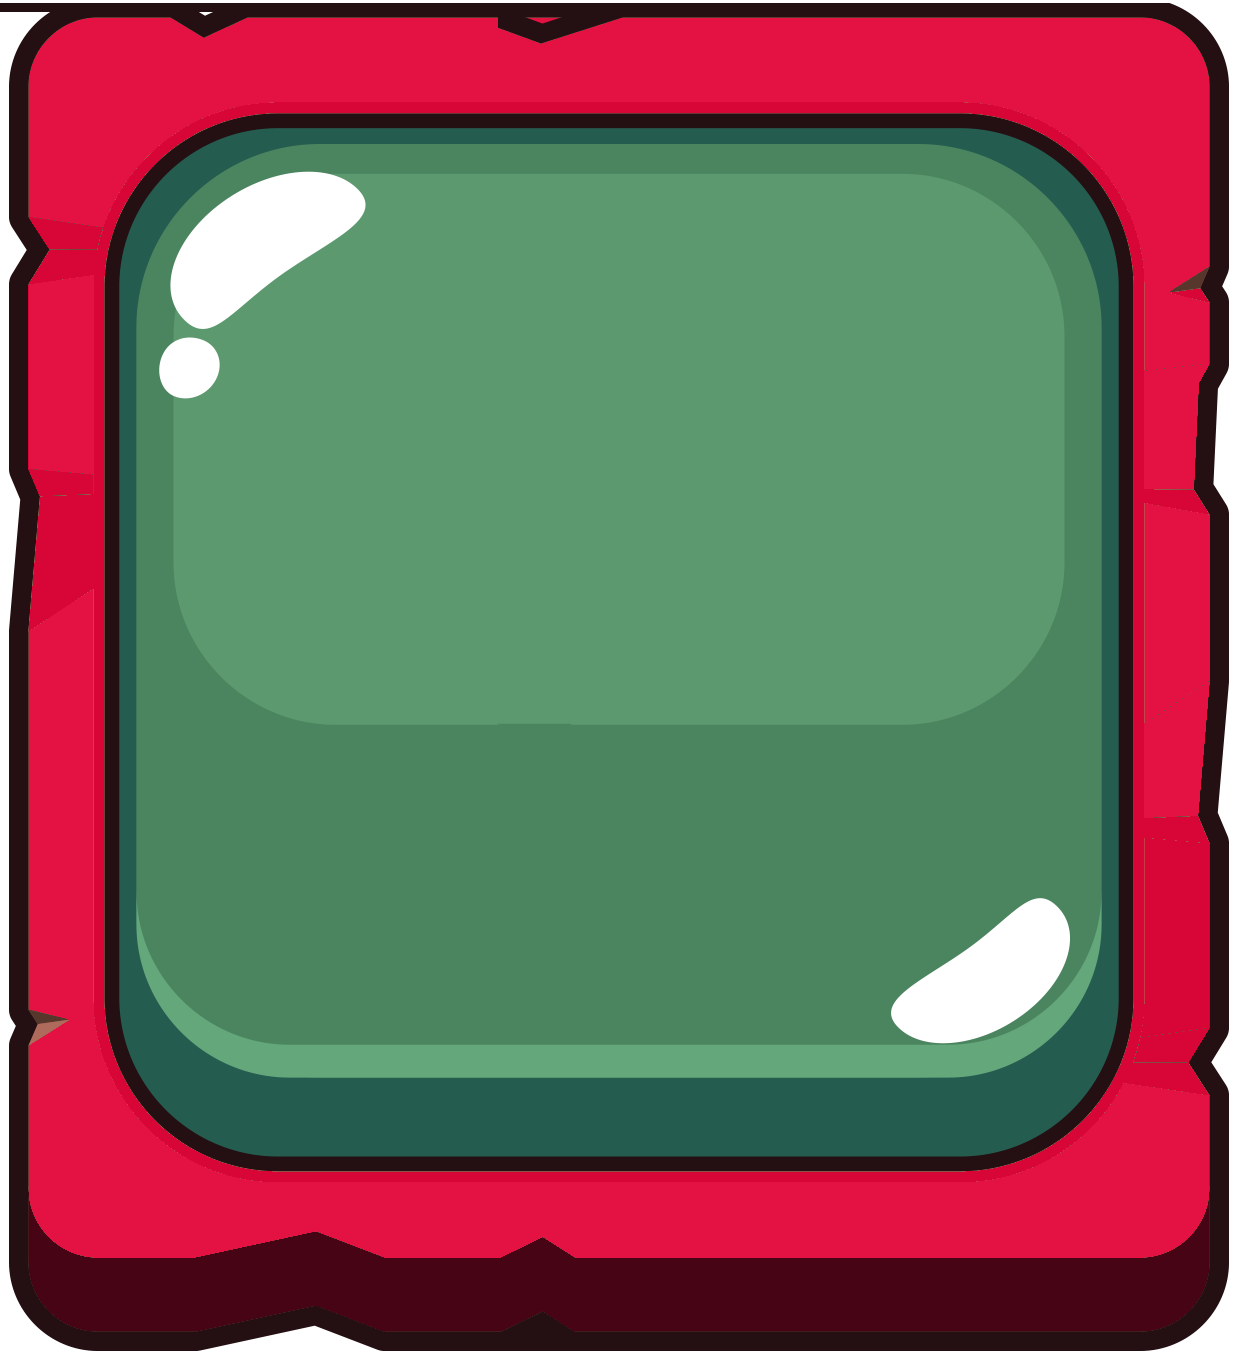
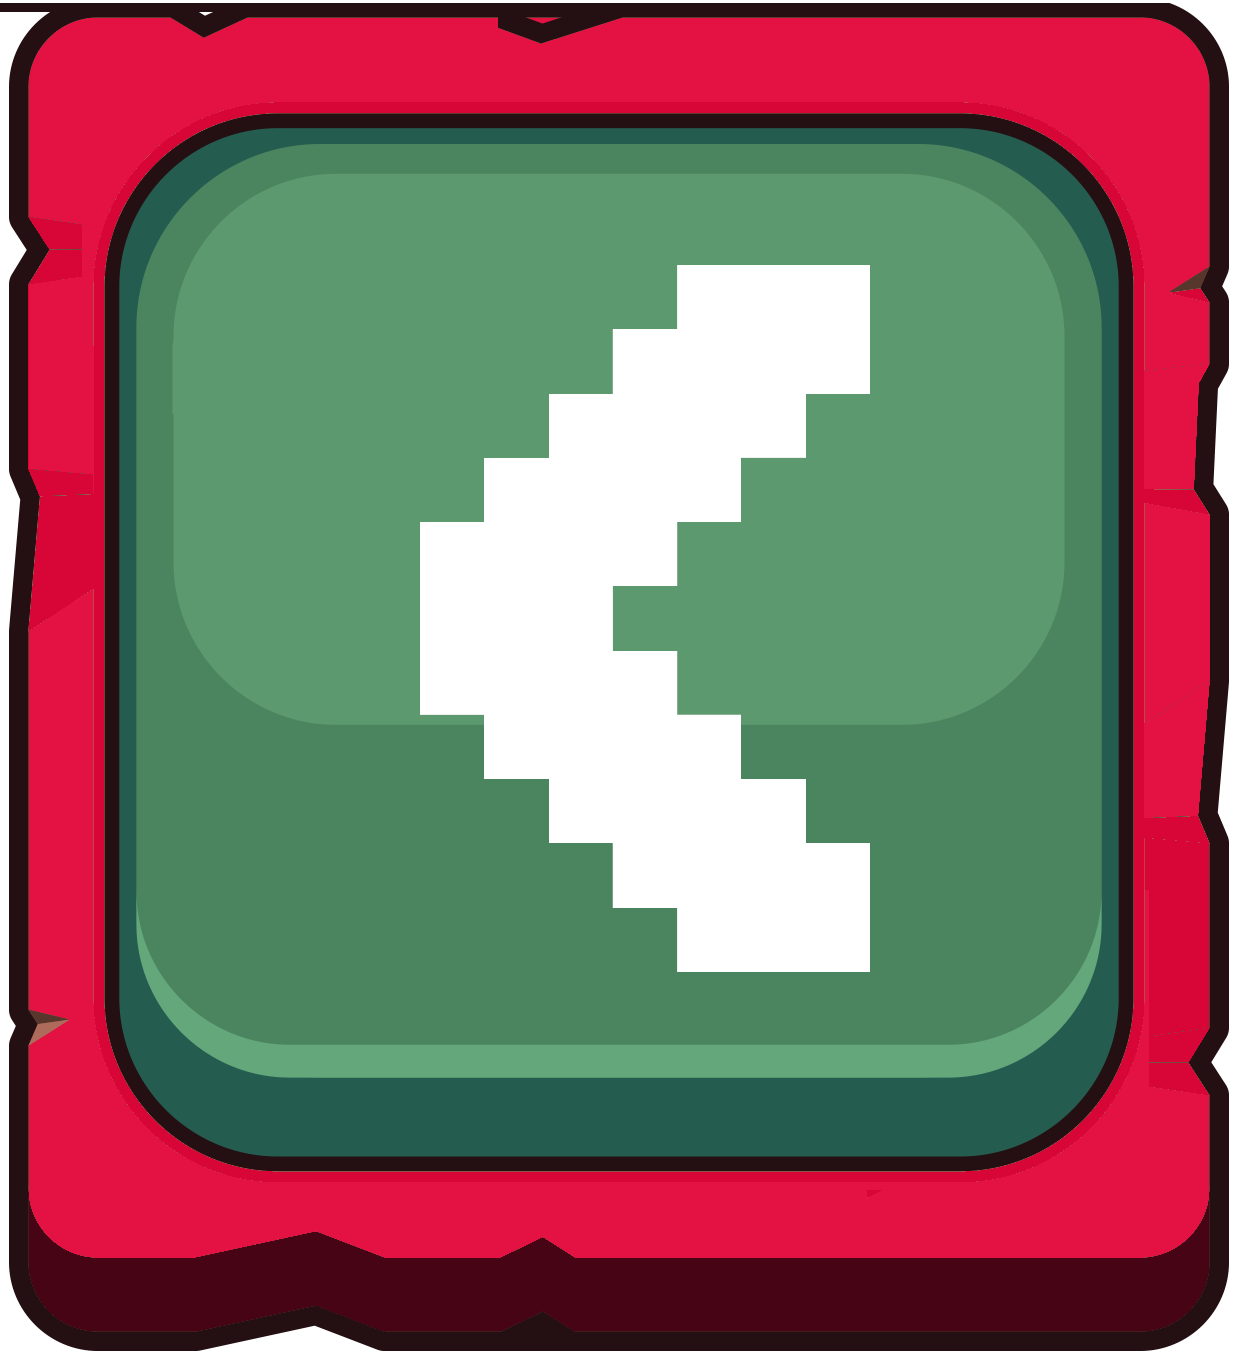
menuButton in ScoreScreen, better Positions::getCenter

Changed region(s): [[0.339, 0.1858, 0.8938, 0.7743], [0.1233, 0.1239, 0.3082, 0.3097]]

diff --git a/Projekt/FlappyBirds/FlappyBirds/ScoreScreen.cpp b/Projekt/FlappyBirds/FlappyBirds/ScoreScreen.cpp
@@ -4,10 +4,8 @@
 
 ScoreScreen::ScoreScreen()
 {
-	menuButton = TextButton();
 	renderWindow = RenderWindowSingleton::GetInstance()->value();
-
-	
+	menuButton = make_shared<TextButton>();
 }
 
 void ScoreScreen::show(ScreenEnum* screen)
@@ -15,6 +13,7 @@ void ScoreScreen::show(ScreenEnum* screen)
 	FileReader service = FileReader();
 	scores = service.readFile();
 	listView = ListView(scores);
+
 	createView();
 	events(screen);
 }
@@ -25,7 +24,8 @@ void ScoreScreen::events(ScreenEnum* screen)
 
 void ScoreScreen::createView()
 {
-	
+	menuButton->show("MENU", Positions::getCenter(menuButton->getSprite()->getGlobalBounds(), 0.95f));
+
 	listView.show();
 	renderWindow->display();
 }

diff --git a/Projekt/FlappyBirds/FlappyBirds/Positions.cpp b/Projekt/FlappyBirds/FlappyBirds/Positions.cpp
@@ -1,9 +1,9 @@
 #include "Positions.h"
 
 
-Vector2f Positions::getCenter(FloatRect bounds) {
+Vector2f Positions::getCenter(FloatRect bounds, float posY, float posX) {
 	shared_ptr<RenderWindow> renderWindow = RenderWindowSingleton::GetInstance()->value();
-	float x = (renderWindow->getSize().x - bounds.width) * 0.5;
-	float y = (renderWindow->getSize().y - bounds.height) * 0.5;
+	float x = (renderWindow->getSize().x - bounds.width) * posX;
+	float y = (renderWindow->getSize().y - bounds.height) * posY;
 	return Vector2f(x, y);
 }

diff --git a/Projekt/FlappyBirds/FlappyBirds/ScoreScreen.h b/Projekt/FlappyBirds/FlappyBirds/ScoreScreen.h
@@ -16,7 +16,7 @@ using namespace sf;
 class ScoreScreen {
 	vector<ScoreEntity> scores;
 	shared_ptr<RenderWindow> renderWindow;
-	TextButton menuButton;
+	shared_ptr<TextButton> menuButton;
 	ListView listView;
 	void events(ScreenEnum* screen);
 	void createView();

diff --git a/Projekt/FlappyBirds/FlappyBirds/Positions.h b/Projekt/FlappyBirds/FlappyBirds/Positions.h
@@ -7,5 +7,5 @@ using namespace sf;
 
 class Positions {
 public:
-	static Vector2f getCenter(FloatRect bounds);
+	static Vector2f getCenter(FloatRect bounds, float posY = 0.5, float posX = 0.5);
 };
